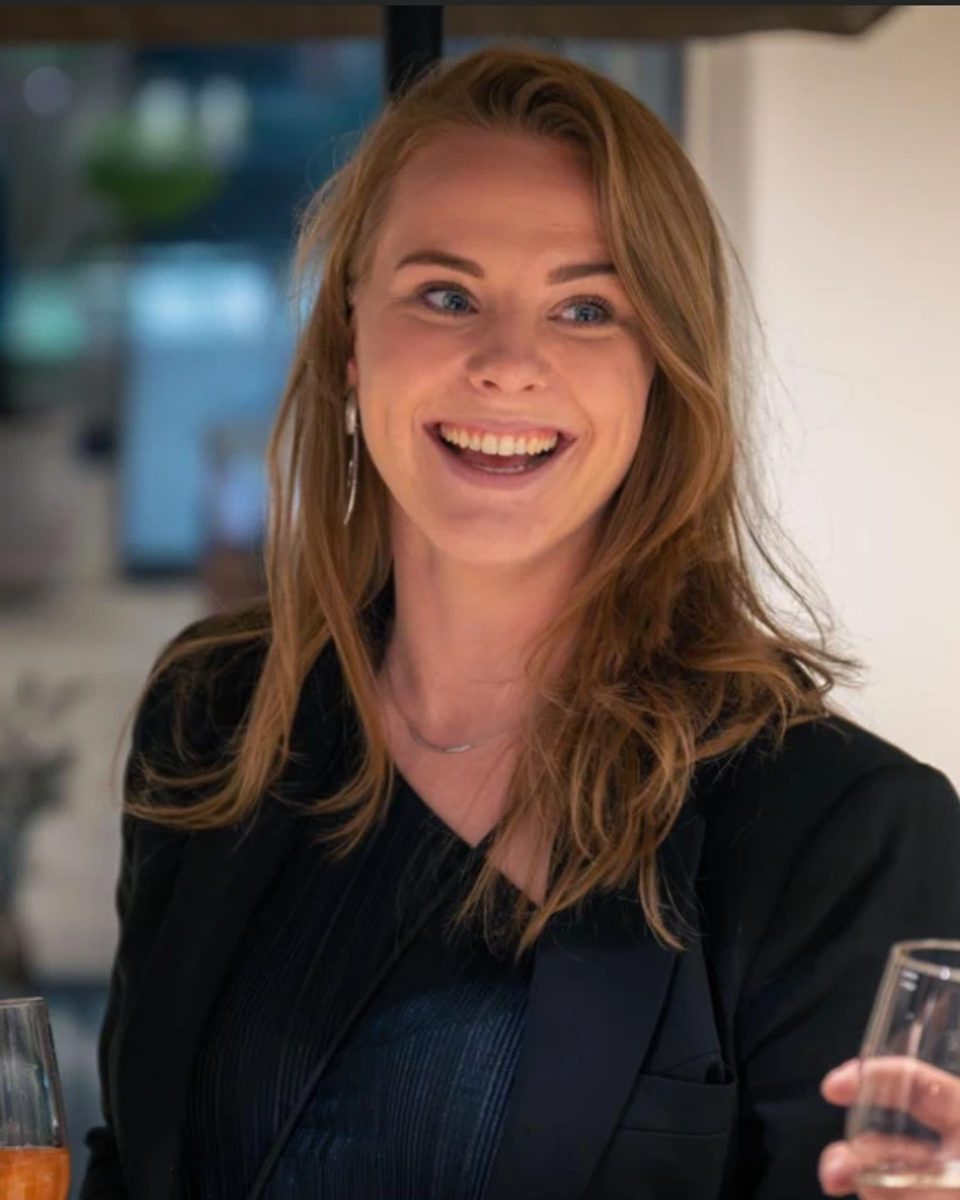
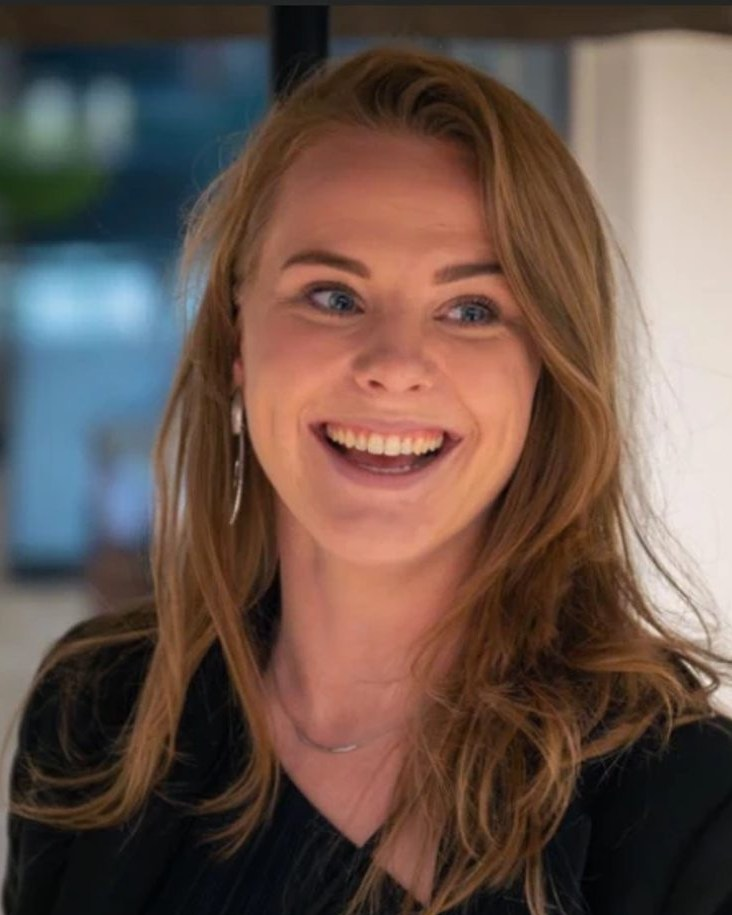
Websites: 'Altijd erbij' als drie kaarten met prijs; foto Pien bijgesneden
- Hosting, onderhoud en basis-SEO elk in een kaart met icoon en prijs
- Blauwe balk met 'Samen vanaf €80 per maand' en de voorwaarden
- Foto van Pien strakker uitgesneden, zodat de glazen buiten beeld vallen

diff --git a/site/websites.html b/site/websites.html
@@ -32,15 +32,18 @@
 </section>
 
 <section class="s s-tint">
-  <div class="wrap duo">
-    <div>
+  <div class="wrap">
+    <div class="sectiekop">
       <p class="label"><span class="merk" aria-hidden="true"><svg viewBox="0 0 24 24" focusable="false"><circle cx="12" cy="12" r="12" fill="currentColor"/><path class="pijl" d="M10.2 7.6 14.6 12l-4.4 4.4" fill="none" stroke-width="2.8" stroke-linecap="round" stroke-linejoin="round"/></svg></span>Altijd erbij</p>
       <h2 class="h2">Na de livegang laten we je niet los.</h2>
+      <p class="intro">Hosting, onderhoud en basis-SEO horen bij elke site. Zo blijft hij snel, veilig en vindbaar.</p>
     </div>
-    <div>
-      <ul class="lijst"><li><span class="merk" aria-hidden="true"><svg viewBox="0 0 24 24" focusable="false"><circle cx="12" cy="12" r="12" fill="currentColor"/><path class="pijl" d="M10.2 7.6 14.6 12l-4.4 4.4" fill="none" stroke-width="2.8" stroke-linecap="round" stroke-linejoin="round"/></svg></span><span><b>Hosting en domein.</b> Je site draait snel en veilig, en je domein blijft van jou.</span></li><li><span class="merk" aria-hidden="true"><svg viewBox="0 0 24 24" focusable="false"><circle cx="12" cy="12" r="12" fill="currentColor"/><path class="pijl" d="M10.2 7.6 14.6 12l-4.4 4.4" fill="none" stroke-width="2.8" stroke-linecap="round" stroke-linejoin="round"/></svg></span><span><b>Onderhoud en beveiliging.</b> Updates, back-ups en beveiliging regelen wij.</span></li><li><span class="merk" aria-hidden="true"><svg viewBox="0 0 24 24" focusable="false"><circle cx="12" cy="12" r="12" fill="currentColor"/><path class="pijl" d="M10.2 7.6 14.6 12l-4.4 4.4" fill="none" stroke-width="2.8" stroke-linecap="round" stroke-linejoin="round"/></svg></span><span><b>Basis-SEO.</b> Elke pagina krijgt een goede titel, omschrijving en opbouw, zodat Google snapt wat je doet.</span></li></ul>
-      <p class="prijsblok">One-page: vanaf €850. Maatwerk van 4 tot 6 pagina's: €2.450. Uitgebreid, met koppelingen: vanaf €3.950. Daarbij altijd hosting en domein (€30 per maand) en onderhoud en beveiliging (vanaf €50 per maand), minimaal 12 maanden. Alle prijzen excl. btw. Je krijgt vooraf een vaste prijs, geen uurtje-factuurtje.</p>
+    <div class="erbij">
+      <article class="erbij__kaart"><svg class="icoon" viewBox="0 0 24 24" aria-hidden="true" focusable="false"><circle cx="12" cy="12" r="9"/><path d="M3 12h18M12 3c2.8 3 2.8 15 0 18M12 3c-2.8 3-2.8 15 0 18"/></svg><h3 class="h3">Hosting en domein</h3><p>Je site draait snel en veilig, en je domein blijft van jou.</p><p class="erbij__prijs">€30<small>per maand, excl. btw</small></p></article>
+      <article class="erbij__kaart"><svg class="icoon" viewBox="0 0 24 24" aria-hidden="true" focusable="false"><path d="M12 3l8 3v6c0 4.5-3.2 7.7-8 9-4.8-1.3-8-4.5-8-9V6z"/><path d="M8.5 12l2.5 2.5 4.5-5"/></svg><h3 class="h3">Onderhoud en beveiliging</h3><p>Updates, back-ups en beveiliging regelen wij.</p><p class="erbij__prijs"><span>Vanaf</span> €50<small>per maand, excl. btw</small></p></article>
+      <article class="erbij__kaart"><svg class="icoon" viewBox="0 0 24 24" aria-hidden="true" focusable="false"><circle cx="11" cy="11" r="6.5"/><path d="M16 16l5 5"/></svg><h3 class="h3">Basis-SEO</h3><p>Elke pagina krijgt een goede titel, omschrijving en opbouw, zodat Google snapt wat je doet.</p><p class="erbij__prijs">Inbegrepen<small>bij elke site</small></p></article>
     </div>
+    <p class="erbij__som"><b>Samen vanaf €80 per maand.</b> Hosting en onderhoud lopen minimaal 12 maanden. Alle prijzen excl. btw. Je krijgt vooraf een vaste prijs, geen uurtje-factuurtje.</p>
   </div>
 </section>
 

diff --git a/site/assets/css/site.css b/site/assets/css/site.css
@@ -283,7 +283,15 @@ p { margin: 0; }
 .duur__uitleg { margin-top: 32px; max-width: 60ch; }
 .soort__prijs { margin-top: 8px; font: 800 26px/1.1 var(--f-kop); letter-spacing: -0.02em; color: var(--blauw); }
 .soort__prijs small { font: 500 14px/1.4 var(--f-tekst); letter-spacing: 0; color: var(--tekst-zacht); }
-.prijsblok { margin-top: 28px; padding: 22px 24px; border: 2px dashed var(--blauw); border-radius: var(--rond-m); background: var(--wit); font-size: 16px; line-height: 1.55; }
+/* Altijd erbij: drie kaarten met wat er maandelijks bij een site hoort */
+.erbij { display: grid; gap: 28px; }
+@media (min-width: 900px) { .erbij { grid-template-columns: repeat(3, 1fr); } }
+.erbij__kaart { display: grid; grid-template-rows: auto auto 1fr auto; gap: 10px; padding: 30px 26px; border: 2px solid var(--blauw); border-radius: var(--rond-m); background: var(--wit); box-shadow: var(--schaduw-blok); }
+.erbij__prijs { display: grid; gap: 4px; margin-top: 12px; padding-top: 18px; border-top: 2px solid var(--lijn); font: 800 34px/1.05 var(--f-kop); letter-spacing: -0.03em; color: var(--blauw); }
+.erbij__prijs span { font-size: 18px; letter-spacing: -0.01em; }
+.erbij__prijs small { font: 500 14px/1.4 var(--f-tekst); letter-spacing: 0; color: var(--tekst-zacht); }
+.erbij__som { margin-top: 40px; padding: 24px 28px; border-radius: var(--rond-m); background: var(--blauw); color: var(--wit); box-shadow: var(--schaduw-geel); font-size: 17px; line-height: 1.55; }
+.erbij__som b { display: block; margin-bottom: 4px; font: 800 22px/1.2 var(--f-kop); letter-spacing: -0.015em; }
 .dienst__prijs { font: 700 15px/1.3 var(--f-kop); color: var(--blauw); }
 .opstart { margin-top: 40px; display: grid; gap: 10px; padding: 26px 28px; border: 2px dashed var(--blauw); border-radius: var(--rond-m); }
 @media (min-width: 900px) { .opstart { grid-template-columns: auto 1fr; gap: 32px; align-items: center; } }

diff --git a/site/over-ons.html b/site/over-ons.html
@@ -19,7 +19,7 @@
 <section class="s s-wit">
   <div class="wrap mensen">
     <div class="persoon">
-      <div class="fotokader"><img src="/assets/img/pien.jpg" alt="Pien van der Graaf, eigenaar van Brand &amp; Boost" width="960" height="1200"></div>
+      <div class="fotokader"><img src="/assets/img/pien.jpg" alt="Pien van der Graaf, eigenaar van Brand &amp; Boost" width="732" height="915"></div>
       <div>
         <p class="label"><span class="merk" aria-hidden="true"><svg viewBox="0 0 24 24" focusable="false"><circle cx="12" cy="12" r="12" fill="currentColor"/><path class="pijl" d="M10.2 7.6 14.6 12l-4.4 4.4" fill="none" stroke-width="2.8" stroke-linecap="round" stroke-linejoin="round"/></svg></span>Pien van der Graaf</p>
         <h2 class="h2">Eerst kijken. Dan pas doen.</h2>

diff --git a/site/coaching.html b/site/coaching.html
@@ -45,7 +45,7 @@
 
 <section class="s s-wit">
   <div class="wrap persoon">
-    <div class="fotokader"><img src="/assets/img/pien.jpg" alt="Pien van der Graaf aan tafel met een ondernemer" width="960" height="1200"></div>
+    <div class="fotokader"><img src="/assets/img/pien.jpg" alt="Pien van der Graaf, businesscoach bij Brand &amp; Boost" width="732" height="915"></div>
     <div>
       <p class="label"><span class="merk" aria-hidden="true"><svg viewBox="0 0 24 24" focusable="false"><circle cx="12" cy="12" r="12" fill="currentColor"/><path class="pijl" d="M10.2 7.6 14.6 12l-4.4 4.4" fill="none" stroke-width="2.8" stroke-linecap="round" stroke-linejoin="round"/></svg></span>Je coach</p>
       <h2 class="h2">Hoi, ik ben Pien.</h2>
